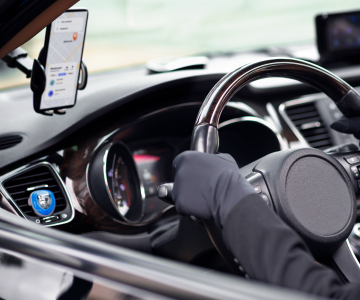
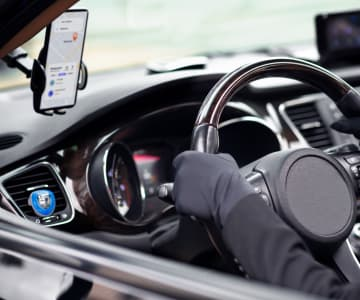
оптимизировал картинки

diff --git a/portfolio.html b/portfolio.html
@@ -51,18 +51,18 @@
         <section>
             <ul class="list">
                 <li>
-                    <img src="./image/portfolio/bankapp.jpg" alt="Picture of banking app" width="360">
+                    <img src="./image/portfolio/app.jpg" alt="Picture of banking app" width="360">
                     <h2 class="h-two">Banking App Interface Concept</h2>
                     <p class="p-portfolio">App</p>
                 </li>
                 <li>
-                    <img src="./image/portfolio/bluefon.jpg" alt="picture of blue font" width="360">
+                    <img src="./image/portfolio/blue.jpg" alt="picture of blue font" width="360">
                     <p class="p-portfolio-second">14 Stylish and User-Friendly App Design Concepts · Task Manager App · Calorie Tracker App · Exotic Fruit Ecommerce App · Cloud Storage App</p>
                     <h2 class="h-two">Cashless Payment</h2>
                     <p class="p-portfolio">Marketing</p>
                 </li>
                 <li>
-                    <img src="./image/portfolio/computer.jpg" alt="Picture of computer" width="360">
+                    <img src="./image/portfolio/pc.jpg" alt="Picture of computer" width="360">
                     <h2 class="h-two">Meditaion App</h2>
                     <p class="p-portfolio">App</p>
                 </li>
@@ -87,12 +87,12 @@
                     <p class="p-portfolio">Design</p>
                 </li>
                 <li>
-                    <img src="./image/portfolio/organic-food.jpg" alt="picture of organic food" width="360">
+                    <img src="./image/portfolio/food.jpg" alt="picture of organic food" width="360">
                     <h2 class="h-two">Organic Food</h2>
                     <p class="p-portfolio">Web Site</p>
                 </li>
                 <li>
-                    <img src="./image/portfolio/cofee.jpg" alt="picture of cofee" width="360">
+                    <img src="./image/portfolio/coffee.jpg" alt="picture of coffee" width="360">
                     <h2 class="h-two">Fresh Coffee</h2>
                     <p class="p-portfolio">Web Site</p>
                 </li>
